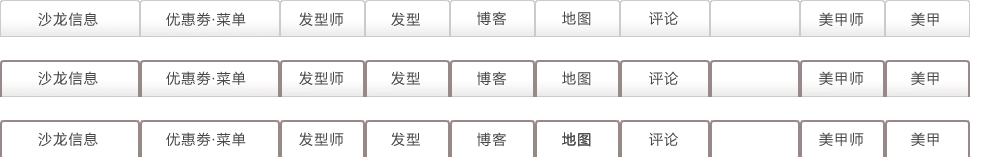
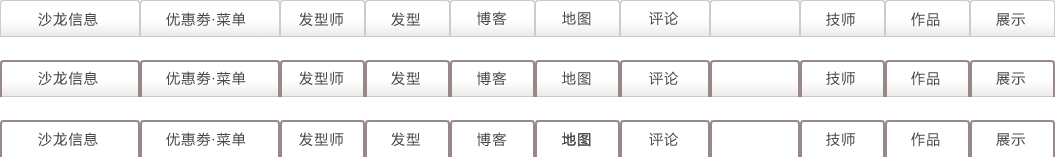
Modify the css of meifan.
Modify the html and css of nail and relax.

diff --git a/app/views/style/general/styleRankingList.scala.html b/app/views/style/general/styleRankingList.scala.html
@@ -2,27 +2,29 @@
 @import helper._
 
 <div class="mT40">
-  <div class="bgLGray">
-    <p style="font-size: 26px;font-weight: bold">@Messages("hair.ranking")</p>
+  <div class="hcHeader">
+    <div class="pr hcHeaderTopPage">
+      <h2 class="headForRanking offL">@Messages("hair.ranking")</h2>
+    </div>
   </div>
   <div>
     @if(styleAndSalon.length > 0) {
     <h4 class="rankingListHeading icnCrown0"><p class="b fs18">1@Messages("common.seat")</p></h4>
     <div class="stylePageTileOuter cFix">
       <div class="fs16 fl">
-        <img src="@routes.Application.getPhoto(styleAndSalon(0).style.stylePic(0).fileObjId)" width="220" height="300" />
+        <img src="@routes.Application.getPhoto(styleAndSalon(0).style.stylePic(0).fileObjId)" width="180" height="240" class="bdGray"/>
       </div>
-      <div class="jscHoverTarget">
+      <div class="jscHoverTarget fl">
         <div class="">
           <div class="w660 h75">
-            <div class="">
+            <div class="fl">
                <a href="@noAuth.routes.Salons.getOneStyle(styleAndSalon(0).salonId, styleAndSalon(0).style.id)" class="rankingListInnerAnchor" >
-                <p class="fs22 b"><span class="photoCaption">@styleAndSalon(0).style.styleName</span></p>
+                <p class="fs18 w230 taC pH20"><span class="photoCaption">@styleAndSalon(0).style.styleName</span></p>
                </a>
             </div>
             <div class="">
             </div>
-            <div class="bdGrayL">
+            <div class="bdGrayL fl taC w240">
                 <div class="sl_show_xy">
                     <p align="center">
                       <a href = "javascript:void(0);" onclick="addFollow('@styleAndSalon(0).style.id','style')" >@Messages("hair.ToCollect")</a>
@@ -30,12 +32,12 @@
                 </div>
             </div>
           </div>
-          <div class="bgLGray w700">
+          <div class="bgLGray w550 h200 fl mL15 mT5">
             <div>
-              <h2 class="lhDe">@Messages("hair.info")</h2>
+              <h2 class="lhDe mT10 mL10">@Messages("hair.info")</h2>
             </div>
             <div class="cFix bdDotT pT10 mT7 ">
-              <div class="fl mR10">
+              <div class="fl pH10">
                 <img src="@routes.Application.getPhoto(models.portal.stylist.Stylist.findOneByStylistId(styleAndSalon(0).style.stylistId).get.myPics(0).fileObjId)" class="w89">
               </div>
               <div class="oh zoom1">
@@ -55,7 +57,7 @@
   
   <div>
     @if(styleAndSalon.length > 1) {
-    <ul class="cFix rankingList">
+    <ul class="cFix rankingList mT40">
       @for(i <- 1 until styleAndSalon.length){
         <li class="fl w176 mR15">
             @if(i < 3) {

diff --git a/app/views/nailCatalog/general/nailRankingList.scala.html b/app/views/nailCatalog/general/nailRankingList.scala.html
@@ -2,27 +2,29 @@
 @import helper._
 
 <div class="mT40">
-  <div class="bgLGray">
-    <p style="font-size: 26px;font-weight: bold">@Messages("hair.ranking")</p>
+  <div class="hcHeader">
+    <div class="pr hcHeaderTopPage">
+      <h2 class="nailForRanking offL">@Messages("hair.ranking")</h2>
+    </div>
   </div>
   <div>
     @if(nailAndSalon.length > 0) {
     <h4 class="rankingListHeading icnCrown0"><p class="b fs18">1@Messages("common.seat")</p></h4>
     <div class="stylePageTileOuter cFix">
       <div class="fs16 fl">
-        <img src="@routes.Application.getPhoto(nailAndSalon(0).nail.stylePic(0).fileObjId)" width="220" height="300" />
+        <img src="@routes.Application.getPhoto(nailAndSalon(0).nail.stylePic(0).fileObjId)" width="180" height="240" class="bdGray"/>
       </div>
-      <div class="jscHoverTarget">
+      <div class="jscHoverTarget fl">
         <div class="">
           <div class="w660 h75">
-            <div class="">
+            <div class="fl">
                <a href="@noAuth.routes.Salons.getOneStyle(nailAndSalon(0).salonId, nailAndSalon(0).nail.id)" class="rankingListInnerAnchor" >
-                <p class="fs22 b"><span class="photoCaption">@nailAndSalon(0).nail.styleName</span></p>
+                <p class="fs18 w230 taC pH20"><span class="photoCaption">@nailAndSalon(0).nail.styleName</span></p>
                </a>
             </div>
             <div class="">
             </div>
-            <div class="bdGrayL">
+            <div class="bdGrayL fl taC w240">
                 <div class="sl_show_xy">
                     <p align="center">
                       <a href = "javascript:void(0);" onclick="addFollow('@nailAndSalon(0).nail.id','nail')" >
@@ -32,12 +34,12 @@
                 </div>
             </div>
           </div>
-          <div class="bgLGray w700">
+          <div class="bgLGray w550 h200 fl mL15 mT5">
             <div>
-              <h2 class="lhDe">@Messages("nail.info")</h2>
+              <h2 class="lhDe mT10 mL10">@Messages("nail.info")</h2>
             </div>
             <div class="cFix bdDotT pT10 mT7 ">
-              <div class="fl mR10">
+              <div class="fl pH10">
                 <img src="@routes.Application.getPhoto(models.portal.stylist.Stylist.findOneByStylistId(nailAndSalon(0).nail.stylistId).get.myPics(0).fileObjId)" class="w89">
               </div>
               <div class="oh zoom1">

diff --git a/app/views/salon/store/nailSalon/salonInfoNailAll.scala.html b/app/views/salon/store/nailSalon/salonInfoNailAll.scala.html
@@ -5,10 +5,12 @@
 <link rel="stylesheet" media="screen" href="@routes.Assets.at("stylesheets/style/style.css")">
 <!-- 分别显示该店铺中所有技术类别的作品-->
 @for(serviceType <- nails.map(_.serviceType).distinct) {
-  <div class="yS mainContentsSecondTitleOuter">
-    <h2 class="yS mainContentsSecondTitleInner">@Messages("nailSalon.salonStyleTitle", salon.salonName)@Messages("ServiceType.serviceTypeName."+serviceType)</h2>
+  <div class="fl wFull mT10">
+    <div class="yS mainContentsSecondTitleOuter">
+      <h2 class="yS mainContentsSecondTitleInner">@Messages("nailSalon.salonStyleTitle", salon.salonName)@Messages("ServiceType.serviceTypeName."+serviceType)</h2>
+    </div>
+    @views.html.nailCatalog.nailGroup(nails.filter(_.serviceType.equals(serviceType)), salon)
   </div>
-  @views.html.nailCatalog.nailGroup(nails.filter(_.serviceType.equals(serviceType)), salon)
 }
 
 }

diff --git a/public/stylesheets/style/style.css b/public/stylesheets/style/style.css
@@ -22,7 +22,6 @@ border-bottom: 1px solid #DDDDDD;
 }
 
 .stylePageTileOuter {
-border-bottom: 3px solid #E4E0D9;
 padding: 0 0 8px 10px;
 }
 
@@ -105,6 +104,19 @@ left: 2px;
 width: 216px;
 height: 26px;
 background: url(/assets/images/text_hair_catalog.jpg) no-repeat 0 0;
+}
+
+.headForRanking, .nailForRanking {
+  position: relative;
+  top: 7px;
+  left: 2px;
+  width: 270px;
+  height: 26px;
+  background: url(/assets/images/text_hair_ranking.jpg) no-repeat 0 0;
+}
+
+.nailForRanking {
+  background: url(/assets/images/text_nail_ranking.jpg) no-repeat 0 0;
 }
 
 .hcHeaderTopPage {
@@ -250,9 +262,6 @@ padding: 2px;
 }
 #salon_tjtj_nr p{
 	width:98px;	
-}
-.bdGrayL {
-border-left: 1px solid #8B8181;
 }
 
 .hairLittleOn {

diff --git a/public/stylesheets/meifanCommon.css b/public/stylesheets/meifanCommon.css
@@ -1373,6 +1373,7 @@ div.skinHeadingWrapper2 {
 .w160	{ width: 160px; }
 .w180	{ width: 180px; }
 .w200	{ width: 200px; }
+.w230	{ width: 230px; }
 .w273	{ width: 273px; }
 .w421	{ width: 421px; }
 .w557	{ width: 557px; }
@@ -1411,6 +1412,7 @@ div.skinHeadingWrapper2 {
 .w166 { width: 166px; }
 .w345 { width: 345px; }
 .w670 { width: 670px; }
+.w550 { width: 550px; }
 
 
 .hMin19 {
@@ -1467,6 +1469,7 @@ _height: 19px;
 .mL4	{ margin-left: 4px; }
 .mL5	{ margin-left: 5px; }
 .mL10	{ margin-left: 10px; }
+.mL15	{ margin-left: 15px; }
 .mL20	{ margin-left: 20px; }
 .mL2	{ margin-left: 2px; }
 

diff --git a/public/stylesheets/salon/salonInfo.css b/public/stylesheets/salon/salonInfo.css
@@ -137,7 +137,7 @@ height: 35px;
 }
 
 .relax {
-  background-position: -885px 0px;
+  background-position: -970px 0px;
   width: 85px;
   height: 35px;
 }
@@ -182,6 +182,14 @@ background-position: -365px -60px;
 
 .nail:hover {
 background-position: -885px -60px;
+}
+
+.stylist-relax:hover {
+  background-position: -800px -60px;
+}
+
+.relax:hover {
+  background-position: -970px -60px;
 }
 
 .blog:hover {
@@ -239,7 +247,7 @@ height: 37px;
 }
 
 .relaxCurrent {
-  background-position: -885px -120px;
+  background-position: -970px -120px;
   width: 85px;
   height: 37px;
 }
